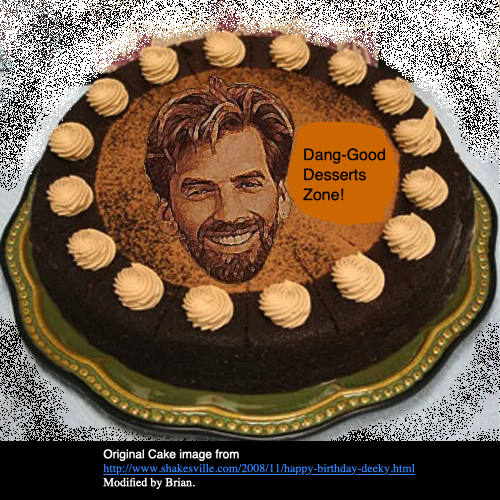
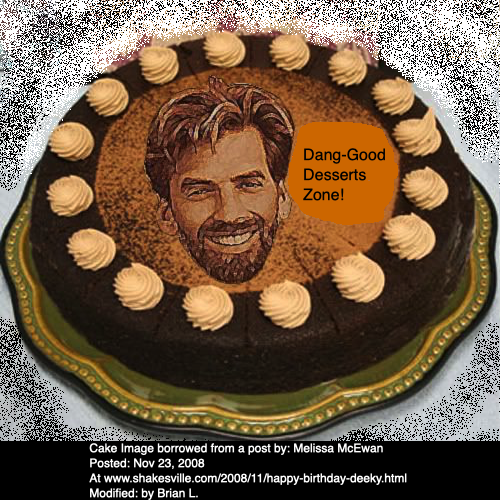
team about page bones made

Changed region(s): [[0.18, 0.87, 0.84, 1.0]]

diff --git a/src/components/TeamAbout.js b/src/components/TeamAbout.js
@@ -2,14 +2,99 @@ import React, { Component } from 'react';
 import './TeamAbout.css';
 
 export default class TeamAbout extends Component {
-
-    
-
-    render() {
-        return ( <div className = "team" >
-            <div className = "danger" > </div> <header>
-            <h1> All about the team: Kenny 's Log-Ins, who made this page</h1> </header> <h2> Brian, Eleni, Esin, and Vincent </h2> </div>
-        )
-    }
+	render() {
+		return (
+			<div className='team'>
+				<header>
+					<h1 className='top'>
+						{' '}
+						All about the team: Kenny 's Log-Ins, who made this page!{' '}
+					</h1>{' '}
+					<h2 className='top'>
+						{' '}
+						We made it: Brian, Eleni, Esin, and Vincent .
+					</h2>{' '}
+				</header>{' '}
+				<h4 className='post-link'>
+					<a
+						href='http://www.shakesville.com/2008/11/happy-birthday-deeky.html'
+						target='_blank'
+						rel='noopener noreferrer'>
+						{' '}
+						original pic post
+					</a>
+				</h4>
+				<img
+					className='kenCakeZone'
+					src={require('../Project-3-Pictures/other/ken-cake1.png')}
+					alt='Kenny Loggins on a cake'></img>
+				<section className='y'>
+					<h2 className='why'> Why we did this ?</h2>
+					<p className='why'>
+						{' '}
+						We wanted to have a desserts page that was easy to add and edit
+						items. We also wanted one that wasn't chock full of popup ads, and
+						commercial videos that autoplayed and slowed the page down to a
+						crawl. We wanted a place people could share their tasty ideas
+						freely. We wanted a place that was quick and easy to use.
+					</p>
+				</section>
+				<section className='hw'>
+					<h2 className='how'> How did we do this?</h2>
+					<h2 className='how'> We made our own express/mongo database.</h2>
+					<h2 className='how'> Then we made a react front-end to access it.</h2>
+					<p className='how'>
+						{' '}
+						Using our express, mongo, mongoose deployed via heroku / mongodb
+						cloud atlas backend as our personal API. We can Create , Read,
+						Update, and Delete the recipes all we want through our react
+						front-end site deployed via GitHub Pages. We created some built in
+						testing modules for both front and back side testing before we
+						deployed it to ensure functionality.{' '}
+					</p>
+				</section>
+				<section className='wh'>
+					<h2 className='who'>
+						{' '}
+						So who is this motley crew that made this for you?
+					</h2>
+					<h3 className='who'> Brian Loveless</h3>
+					<p className='brian'>
+						Just starting my journey on this side of the interwebs. I would love
+						to crack into the gaming world someday.{' '}
+						<a
+							href='https://www.brianloveless.com'
+							target='_blank'
+							rel='noopener noreferrer'>
+							My site is here.
+						</a>
+					</p>
+					<h3 className='who'> Eleni Goranites</h3>
+					<p className='eleni'>
+						lorem ipsum bacon meaty words and stuff go header i am a code
+						typwer.{' '}
+						<a href='#' target='_blank' rel='noopener noreferrer'>
+							My site is here.
+						</a>
+					</p>
+					<h3 className='who'> Esin Saribudak</h3>
+					<p className='esin'>
+						lorem ipsum bacon meaty words and stuff go header i am a code
+						typwer.{' '}
+						<a href='#' target='_blank' rel='noopener noreferrer'>
+							My site is here.
+						</a>
+					</p>
+					<h3 className='who'> Vincent Chen</h3>
+					<p className='vincent'>
+						lorem ipsum bacon meaty words and stuff go header i am a code
+						typwer.{' '}
+						<a href='#' target='_blank' rel='noopener noreferrer'>
+							My site is here.
+						</a>
+					</p>
+				</section>
+			</div>
+		);
+	}
 }
-

diff --git a/src/components/TeamAbout.css b/src/components/TeamAbout.css
@@ -1,9 +1,140 @@
-.team{
-    margin:5% 10%;
-
+.team {
+	margin: 5% 10%;
 }
 
+.post-link a {
+	background-color: black;
+	color: white;
+	font-size: 10px;
+	margin: 3%;
+	text-align: center;
+	text-decoration: none;
+}
+.top {
+	background-color: white;
+	border-radius: 10px;
+	border: 2px solid black;
+	margin: 3%;
+	padding: 10px;
+}
 
-.danger{
-  
+.kenCakeZone {
+	margin: 2% 23%;
+}
+
+.why {
+	background-color: lightgray;
+	text-align: center;
+	border-radius: 10px;
+	border: 2px solid black;
+	padding: 5px;
+	margin: 3%;
+}
+
+.how {
+	background-color: rgb(149, 208, 241);
+	text-align: center;
+	border-radius: 10px;
+	border: 2px solid black;
+	padding: 5px;
+	margin: 3%;
+}
+
+.who {
+	background-color: rgb(253, 163, 234);
+	text-align: center;
+	border-radius: 10px;
+	border: 2px solid black;
+	padding: 5px;
+	margin: 3%;
+}
+
+.brian {
+	background-color: rgb(5, 70, 45);
+	color: whitesmoke;
+	text-align: center;
+	border-radius: 10px;
+	border: 2px solid black;
+	padding: 10px;
+	margin: 3%;
+}
+
+.brian a {
+	text-decoration: none;
+	color: pink;
+	background-color: black;
+	border-radius: 5px;
+}
+
+.brian a:hover {
+	text-decoration: none;
+	color: black;
+	background-color: pink;
+	border-radius: 5px;
+}
+
+.eleni {
+	background-color: rgb(0, 5, 3);
+	color: whitesmoke;
+	text-align: center;
+	border-radius: 10px;
+	border: 2px solid black;
+	padding: 10px;
+	margin: 3%;
+}
+.eleni a {
+	text-decoration: none;
+	color: black;
+	background-color: white;
+	border-radius: 5px;
+}
+.eleni a:hover {
+	text-decoration: none;
+	color: white;
+	background-color: black;
+	border-radius: 5px;
+}
+.esin {
+	background-color: rgb(0, 7, 4);
+	color: whitesmoke;
+	text-align: center;
+	border-radius: 10px;
+	border: 2px solid black;
+	padding: 10px;
+	margin: 3%;
+}
+.esin a {
+	text-decoration: none;
+	color: black;
+	background-color: white;
+	border-radius: 5px;
+}
+.esin a:hover {
+	text-decoration: none;
+	color: white;
+	background-color: black;
+	border-radius: 5px;
+}
+
+.vincent {
+	background-color: rgb(0, 3, 2);
+	color: whitesmoke;
+	text-align: center;
+	border-radius: 10px;
+	border: 2px solid black;
+	padding: 10px;
+	margin: 3%;
+}
+
+.vincent a {
+	text-decoration: none;
+	color: black;
+	background-color: white;
+	border-radius: 5px;
+}
+.vincent a:hover {
+	text-decoration: none;
+	color: white;
+	background-color: black;
+	border-radius: 5px;
 }
